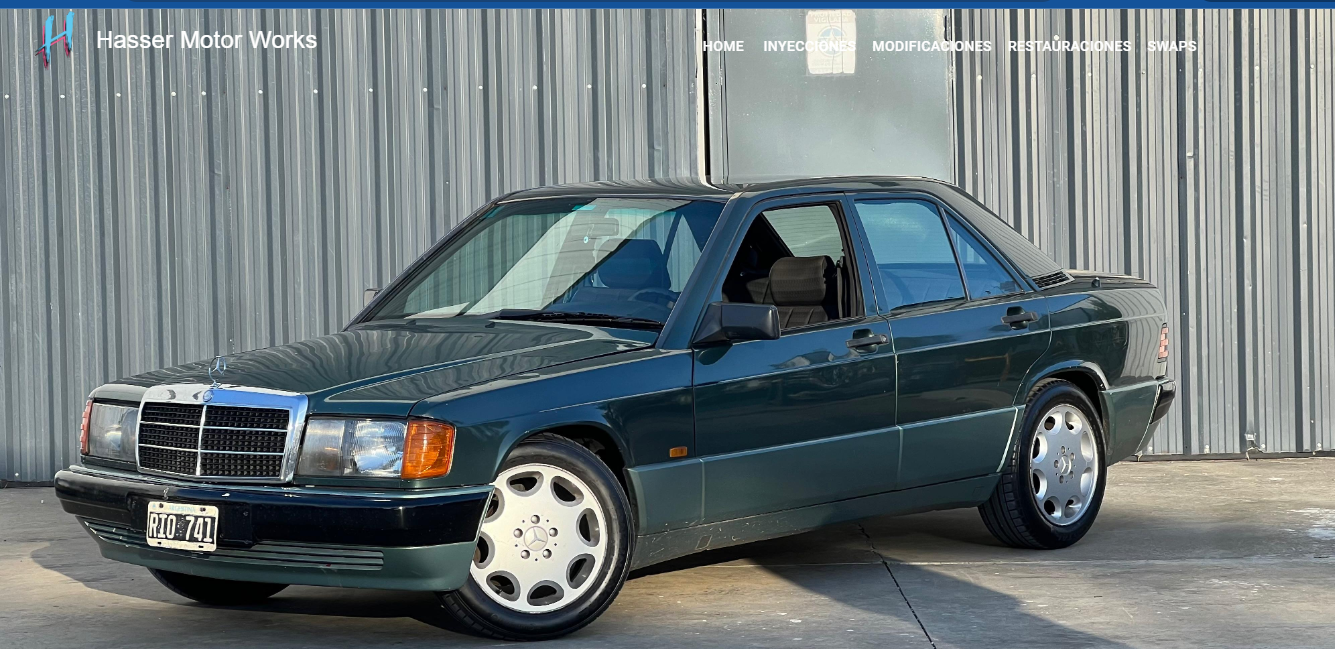
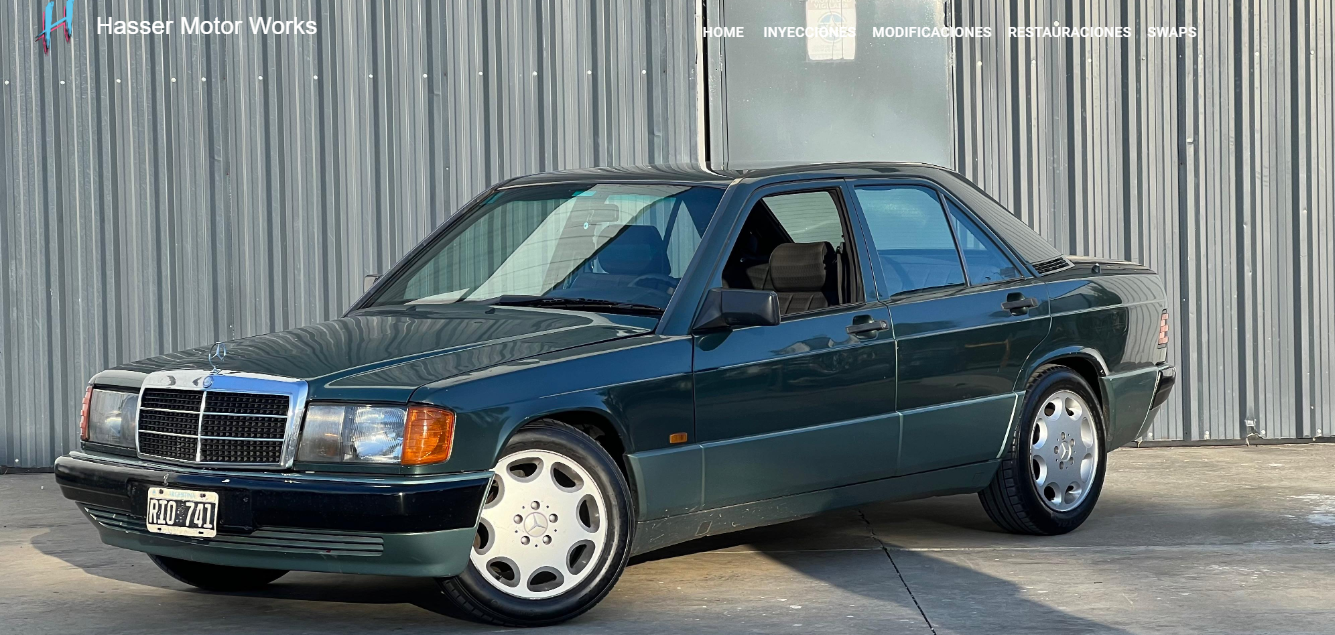
fix imagenes

diff --git a/src/experiencia/ExperienciaFreelance.tsx b/src/experiencia/ExperienciaFreelance.tsx
@@ -1,19 +1,13 @@
-import { Box, Typography, Tooltip, useMediaQuery } from '@mui/material';
+import { Box, Typography, Tooltip, useMediaQuery, useTheme } from '@mui/material';
 import { SiNextdotjs, SiTypescript, SiMui } from 'react-icons/si';
 import { EXPERIENCIA_FREELANCE } from './constants/experiencia';
 
 export const ExperienciaFreelance = () => {
-    const isSmallScreen = useMediaQuery('(max-width: 900px)');
-    const marginLeftSmartPhone = isSmallScreen ? '18%' : '0%';
+    const theme = useTheme();
+    const isDesktop = useMediaQuery(theme.breakpoints.up('md'));
 
-    const isMediumScreen = useMediaQuery('(max-width: 800px)');
-    const isExtraSmallScreen = useMediaQuery('(max-width: 700px)');
-
-    const marginLeftExtraSmartPhone = isExtraSmallScreen
-        ? '26%' // celulares chicos
-        : isMediumScreen
-            ? '38%' // tablets / celulares grandes
-            : '42%'; // desktop
+    // Ancho compartido para galería e íconos (igual que en Empresarial)
+    const mediaWidth = isDesktop ? '100%' : '60%';
 
     return (
         <Box id="Freelance" sx={{ mb: 4 }}>
@@ -28,38 +22,30 @@ export const ExperienciaFreelance = () => {
                     justifyContent: 'center',
                     alignItems: 'flex-start',
                     gap: 2,
-                    marginTop: '2rem',
+                    mt: '2rem',
                     border: '2px solid orangered',
                     borderRadius: '2rem',
-                    padding: '1.5rem',
+                    p: '1.5rem',
                 }}
             >
                 <Typography variant="h5">Hasser Motor Works (Febrero 2025)</Typography>
-                <Typography variant="body1">
-                    {EXPERIENCIA_FREELANCE}
-                </Typography>
 
-                {/* Galería PC + Mobile */}
-                <Box
-                    sx={{
-                        display: 'flex',
-                        flexDirection: { xs: 'column', md: 'row' },
-                        justifyContent: 'center',
-                        alignItems: 'flex-start',
-                        gap: 3,
-                        mt: 2,
-                        width: '100%',
-                    }}
-                >
+                <Typography
+                    variant="body1"
+                    dangerouslySetInnerHTML={{ __html: EXPERIENCIA_FREELANCE }}
+                />
+
+                {/* Galería: SOLO una imagen según breakpoint */}
+                <Box sx={{ mt: 2, width: '100%', display: 'flex', justifyContent: 'center' }}>
                     <Box
                         sx={{
-                            display: { xs: 'none', md: 'block' },
-                            borderRadius: '10px',
+                            width: mediaWidth,
+                            height: isDesktop ? '30rem' : 'auto',
+                            borderRadius: isDesktop ? '10px' : '2rem',
                             overflow: 'hidden',
                             border: '4px solid #ccc',
                             boxShadow: '0 4px 12px rgba(0,0,0,0.2)',
-                            width: '60%',
-                            height: '30rem',
+                            mx: 'auto',
                         }}
                     >
                         <Tooltip title="Clickeá para ver el proyecto" arrow>
@@ -69,58 +55,40 @@ export const ExperienciaFreelance = () => {
                                 rel="noopener noreferrer"
                                 style={{ textDecoration: 'none' }}
                             >
-                                <img
-                                    src="/hasser-desktop.png"
-                                    alt="Hasser Motor Works - versión escritorio"
-                                    style={{
-                                        width: '170%',
-                                        height: '100%',
-                                        objectFit: 'cover',
-                                        display: 'block',
-                                    }}
-                                />
-                            </a>
-                        </Tooltip>
-                    </Box>
-
-                    <Box
-                        sx={{
-                            borderRadius: '2rem',
-                            overflow: 'hidden',
-                            border: '4px solid #ccc',
-                            boxShadow: '0 4px 12px rgba(0,0,0,0.2)',
-                            width: { xs: '60%', md: '30%' },
-                            marginLeft: marginLeftSmartPhone,
-                        }}
-                    >
-                        <Tooltip title="Clickeá para ver el proyecto" arrow>
-                            <a
-                                href="https://hassermotorworks.com/"
-                                target="_blank"
-                                rel="noopener noreferrer"
-                                style={{ textDecoration: 'none' }}
-                            >
-                                <img
-                                    src="/hasser-mobile.jpeg"
-                                    alt="Hasser Motor Works - versión móvil"
-                                    style={{
-                                        width: '100%',
-                                        display: 'block',
-                                    }}
-                                />
+                                {isDesktop ? (
+                                    <img
+                                        src="/hasser-desktop.png"
+                                        alt="Hasser Motor Works - versión escritorio"
+                                        style={{
+                                            width: '110%',
+                                            height: '100%',
+                                            objectFit: 'cover',
+                                            objectPosition: 'top center',
+                                            display: 'block',
+                                        }}
+                                    />
+                                ) : (
+                                    <img
+                                        src="/hasser-mobile.jpeg"
+                                        alt="Hasser Motor Works - versión móvil"
+                                        style={{ width: '100%', display: 'block' }}
+                                    />
+                                )}
                             </a>
                         </Tooltip>
                     </Box>
                 </Box>
 
-                {/* Tecnologías */}
+                {/* Tecnologías (mismo ancho que la galería) */}
                 <Box
                     sx={{
+                        width: mediaWidth,
+                        mx: 'auto',
                         display: 'flex',
                         justifyContent: 'center',
-                        marginTop: '2rem',
-                        marginLeft: marginLeftExtraSmartPhone,
+                        alignItems: 'center',
                         gap: 3,
+                        mt: '2rem',
                     }}
                 >
                     <Tooltip title="Next.js" arrow>
@@ -128,13 +96,11 @@ export const ExperienciaFreelance = () => {
                             <SiNextdotjs size={40} color="black" />
                         </Box>
                     </Tooltip>
-
                     <Tooltip title="TypeScript" arrow>
                         <Box component="span">
                             <SiTypescript size={40} color="#3178C6" />
                         </Box>
                     </Tooltip>
-
                     <Tooltip title="Material UI" arrow>
                         <Box component="span">
                             <SiMui size={40} color="#0081CB" />

diff --git a/src/experiencia/ExperienciaEmpresarial.tsx b/src/experiencia/ExperienciaEmpresarial.tsx
@@ -1,18 +1,13 @@
-import { Box, Typography, Tooltip, useMediaQuery } from '@mui/material';
+import { Box, Typography, Tooltip, useMediaQuery, useTheme } from '@mui/material';
 import { SiNextdotjs, SiTypescript, SiMui } from 'react-icons/si';
 import { EXPERIENCIA_EMPRESARIAL } from './constants/experiencia';
 
 export const ExperienciaEmpresarial = () => {
-    const isSmallScreen = useMediaQuery('(max-width: 900px)');
-    const marginLeftSmartPhone = isSmallScreen ? '18%' : '0%';
-    const isMediumScreen = useMediaQuery('(max-width: 800px)');
-    const isExtraSmallScreen = useMediaQuery('(max-width: 700px)');
+    const theme = useTheme();
+    const isDesktop = useMediaQuery(theme.breakpoints.up('md')); 
 
-    const marginLeftExtraSmartPhone = isExtraSmallScreen
-        ? '26%'
-        : isMediumScreen
-            ? '38%'
-            : '42%';
+    // Ancho compartido para galería e íconos 
+    const mediaWidth = isDesktop ? '100%' : '60%';
 
     return (
         <Box id="Empresarial" sx={{ mb: 4 }}>
@@ -27,89 +22,73 @@ export const ExperienciaEmpresarial = () => {
                     justifyContent: 'center',
                     alignItems: 'flex-start',
                     gap: 2,
-                    marginTop: '2rem',
+                    mt: '2rem',
                     border: '2px solid orangered',
                     borderRadius: '2rem',
-                    padding: '1.5rem',
+                    p: '1.5rem',
                 }}
             >
                 <Typography variant="h5">IT Patagonia (Septiembre 2024 - Actualidad)</Typography>
-                <Typography variant="body1">
-                    {EXPERIENCIA_EMPRESARIAL}
-                </Typography>
 
-                {/* Galería */}
-                <Box
-                    sx={{
-                        display: 'flex',
-                        flexDirection: { xs: 'column', md: 'row' },
-                        justifyContent: 'center',
-                        alignItems: 'flex-start',
-                        gap: 3,
-                        mt: 2,
-                        width: '100%',
-                    }}
-                >
+                <Typography
+                    variant="body1"
+                    dangerouslySetInnerHTML={{ __html: EXPERIENCIA_EMPRESARIAL }}
+                />
+
+                {/* Galería: SOLO una imagen según breakpoint */}
+                <Box sx={{ mt: 2, width: '100%', display: 'flex', justifyContent: 'center' }}>
                     <Box
                         sx={{
-                            display: { xs: 'none', md: 'block' },
-                            borderRadius: '10px',
+                            width: mediaWidth,
+                            height: isDesktop ? '30rem' : 'auto',
+                            borderRadius: isDesktop ? '10px' : '2rem',
                             overflow: 'hidden',
                             border: '4px solid #ccc',
                             boxShadow: '0 4px 12px rgba(0,0,0,0.2)',
-                            width: '60%',
-                            height: '30rem',
+                            mx: 'auto',
                         }}
                     >
                         <Tooltip title="Clickeá para ver el proyecto" arrow>
-                            <a href="https://cvprest.osde.com.ar/" target="_blank" rel="noopener noreferrer" style={{ textDecoration: 'none' }}>
-                                <img
-                                    src="/osde-desktop.png"
-                                    alt="CV Prestadores OSDE - versión escritorio"
-                                    style={{
-                                        width: '180%',
-                                        height: '100%',
-                                        objectFit: 'cover',
-                                        display: 'block',
-                                    }}
-                                />
-                            </a>
-                        </Tooltip>
-                    </Box>
-
-                    <Box
-                        sx={{
-                            borderRadius: '2rem',
-                            overflow: 'hidden',
-                            border: '4px solid #ccc',
-                            boxShadow: '0 4px 12px rgba(0,0,0,0.2)',
-                            width: { xs: '60%', md: '30%' },
-                            marginLeft: marginLeftSmartPhone,
-                        }}
-                    >
-                        <Tooltip title="Clickeá para ver el proyecto" arrow>
-                            <a href="https://cvprest.osde.com.ar/" target="_blank" rel="noopener noreferrer" style={{ textDecoration: 'none' }}>
-                                <img
-                                    src="/osde-mobile.jpeg"
-                                    alt="CV Prestadores OSDE - versión móvil"
-                                    style={{
-                                        width: '100%',
-                                        display: 'block',
-                                    }}
-                                />
+                            <a
+                                href="https://cvprest.osde.com.ar/"
+                                target="_blank"
+                                rel="noopener noreferrer"
+                                style={{ textDecoration: 'none' }}
+                            >
+                                {isDesktop ? (
+                                    <img
+                                        src="/osde-desktop.png"
+                                        alt="CV Prestadores OSDE - versión escritorio"
+                                        style={{
+                                            width: '120%',
+                                            height: '100%',
+                                            objectFit: 'cover',
+                                            objectPosition: 'top center',
+                                            display: 'block',
+                                        }}
+                                    />
+                                ) : (
+                                    <img
+                                        src="/osde-mobile.jpeg"
+                                        alt="CV Prestadores OSDE - versión móvil"
+                                        style={{ width: '100%', display: 'block' }}
+                                    />
+                                )}
                             </a>
                         </Tooltip>
                     </Box>
                 </Box>
 
-                {/* Tecnologías */}
+                {/* Tecnologías (mismo ancho que la galería) */}
                 <Box
                     sx={{
+                        width: mediaWidth,
+                        mx: 'auto',
                         display: 'flex',
                         justifyContent: 'center',
-                        marginTop: '2rem',
-                        marginLeft: marginLeftExtraSmartPhone,
+                        alignItems: 'center',
                         gap: 3,
+                        mt: '2rem',
                     }}
                 >
                     <Tooltip title="Next.js" arrow>
@@ -117,13 +96,11 @@ export const ExperienciaEmpresarial = () => {
                             <SiNextdotjs size={40} color="black" />
                         </Box>
                     </Tooltip>
-
                     <Tooltip title="TypeScript" arrow>
                         <Box component="span">
                             <SiTypescript size={40} color="#3178C6" />
                         </Box>
                     </Tooltip>
-
                     <Tooltip title="Material UI" arrow>
                         <Box component="span">
                             <SiMui size={40} color="#0081CB" />
